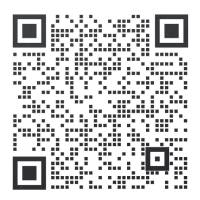
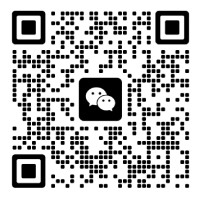
0312

diff --git a/contact-cn.html b/contact-cn.html
@@ -50,25 +50,10 @@
             <p><span class="glyphicon glyphicon-phone"></span> 电话A2：+60-135166826</p>
             <p><span class="glyphicon glyphicon-phone"></span> 电话B1：+1-5146559949</p>
             <p><span class="glyphicon glyphicon-phone"></span> 电话C1：+86-13554693349</p>
-            <p><span class="glyphicon glyphicon-education"></span> 助理微信: Twin-Tower-Tech</p>
+            <p><span class="glyphicon glyphicon-education"></span> 助理微信: Study2Max</p>
             <div class="col-sm-3">
               <p><span class="glyphicon glyphicon-qrcode"></span> 客服微信: </p>
               <img width=200 src="img/about/wechat.jpg" style="width:80px;">
-              <br><br>
-            </div>
-            <div class="col-sm-3">
-              <p><span class="glyphicon glyphicon-qrcode"></span> 黄老师微信: </p>
-              <img width=200 src="img/about/wechat-huang.jpg" style="width:80px;">
-              <br><br>
-            </div>
-            <div class="col-sm-3">
-              <p><span class="glyphicon glyphicon-qrcode"></span> 李博士微信: </p>
-              <img width=200 src="img/about/wechat-li.jpg" style="width:80px;">
-              <br><br>
-            </div>
-            <div class="col-sm-3">
-              <p><span class="glyphicon glyphicon-qrcode"></span> 陈老师微信: </p>
-              <img width=200 src="img/about/wechat-chen.jpg" style="width:80px;">
               <br><br>
             </div>
           </div>

diff --git a/index-cn.html b/index-cn.html
@@ -482,7 +482,7 @@
             <div class="modal-body">
               <img src="img/about/wechat.jpg" style="width:200px;">
               <br>
-              <p style="color:#000;">电子邮箱: info@studymax.org</p>
+              <p style="color:#000;">电子邮箱: mystudy.max@gmail.com</p>
             </div>
             <div class="modal-footer">
               <button type="button" class="btn btn-default" data-dismiss="modal">关闭</button>

diff --git a/index.html b/index.html
@@ -482,7 +482,7 @@
             <div class="modal-body">
               <img src="img/about/wechat.jpg" style="width:200px;">
               <br>
-              <p style="color:#000;">电子邮箱: info@studymax.org</p>
+              <p style="color:#000;">电子邮箱: mystudy.max@gmail.com</p>
             </div>
             <div class="modal-footer">
               <button type="button" class="btn btn-default" data-dismiss="modal">Close</button>
